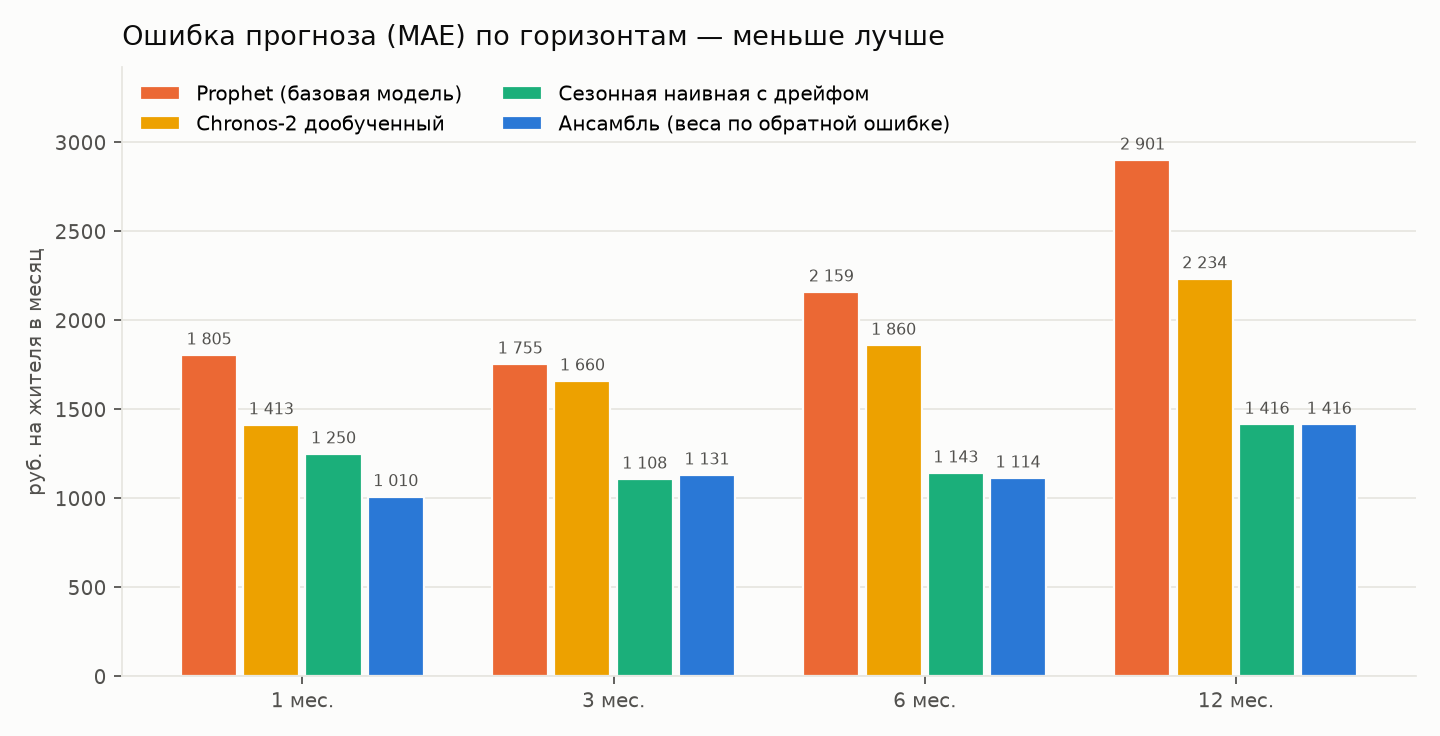
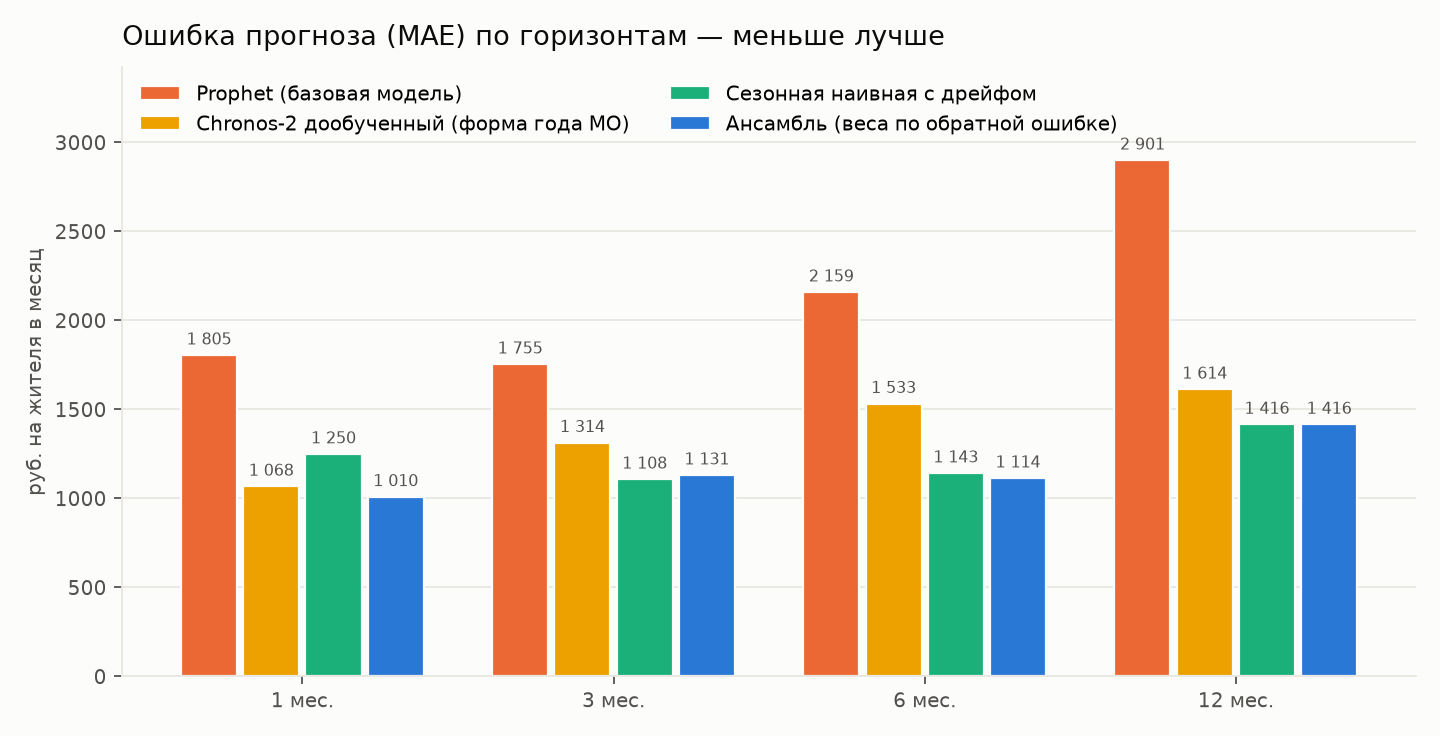
Обновил главный график сравнения моделей

diff --git a/reports/landing/index.html b/reports/landing/index.html
@@ -79,7 +79,7 @@ a{color:var(--blue)}
 
 <section><div class="wrap">
 <h2>Сравнение моделей прогноза</h2>
-<figure><img src="../figures/01_mae_by_horizon.png" alt="MAE по горизонтам: Prophet, Chronos-2 дообученный, сезонная наивная с дрейфом, ансамбль"><figcaption>MAE, руб. на жителя в месяц; скользящее окно по 2024 году, 2 016 МО.</figcaption></figure>
+<figure><img src="../figures/01_mae_by_horizon.png" alt="MAE по горизонтам: Prophet, Chronos-2 дообученный (форма года МО), сезонная наивная с дрейфом, ансамбль"><figcaption>MAE, руб. на жителя в месяц; скользящее окно по 2024 году, 2 016 МО.</figcaption></figure>
 <div class="tbl"><table>
 <thead><tr><th>Модель</th><th>1 мес.</th><th>3 мес.</th><th>6 мес.</th><th>12 мес.</th></tr></thead>
 <tbody>

diff --git a/src/report/figures.py b/src/report/figures.py
@@ -45,7 +45,7 @@ def mae_by_horizon():
     from src.eval.metrics import summarize
     s = pd.concat([s[s.model != "ens_inv_mae"], summarize(ens)])
     t = s.pivot(index="model", columns="h", values="MAE")
-    rows = [("prophet", "Prophet (базовая модель)", ORANGE), ("chronos2_ft", "Chronos-2 дообученный", YELLOW),
+    rows = [("prophet", "Prophet (базовая модель)", ORANGE), ("chronos2_ft_mix", "Chronos-2 дообученный (форма года МО)", YELLOW),
             ("snaive_natg", "Сезонная наивная с дрейфом", AQUA), ("ens_inv_mae", "Ансамбль (веса по обратной ошибке)", BLUE)]
     fig, ax = _fig(9, 4.6)
     hs = [1, 3, 6, 12]
